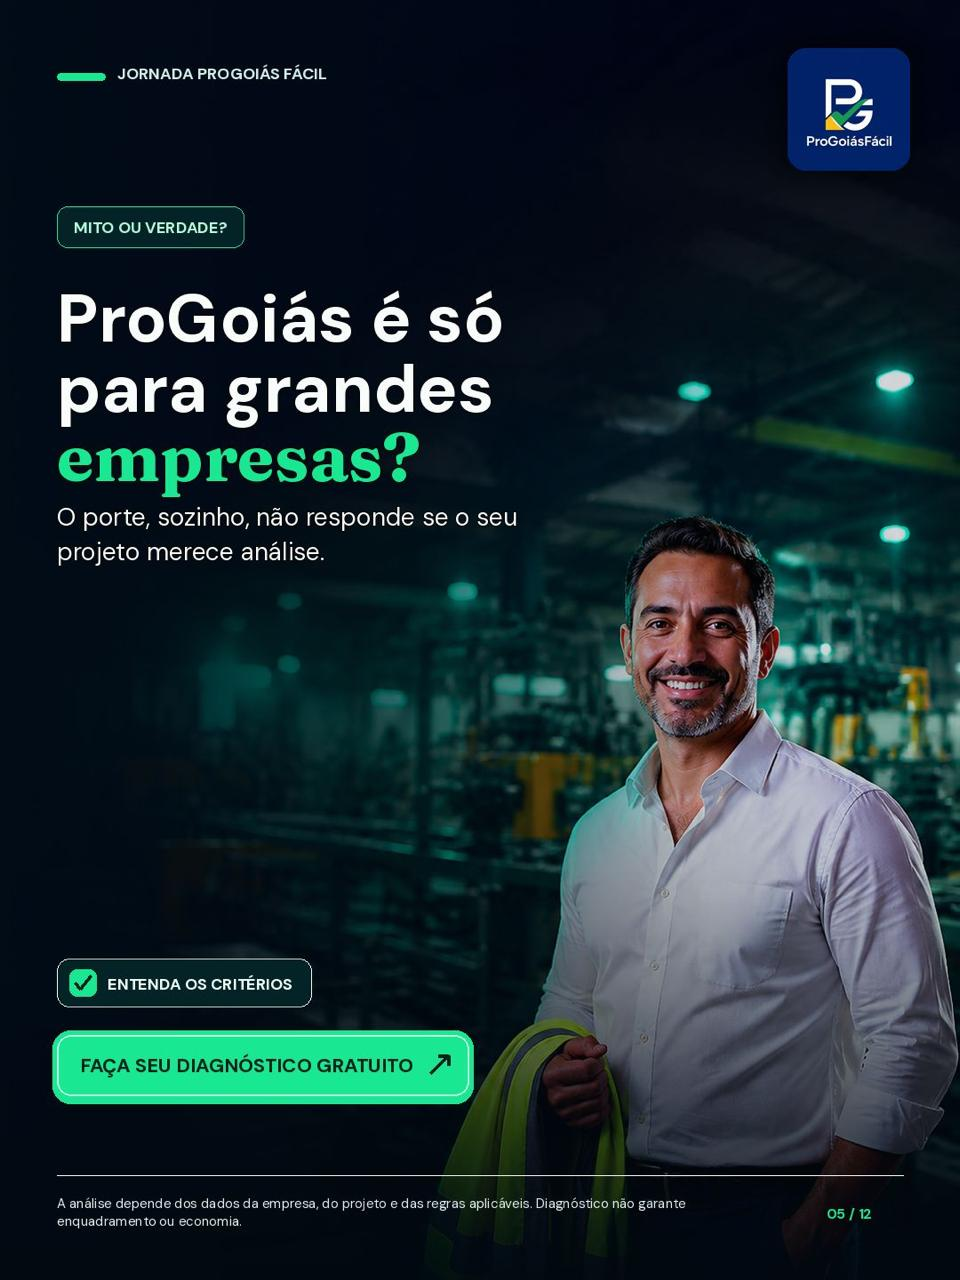
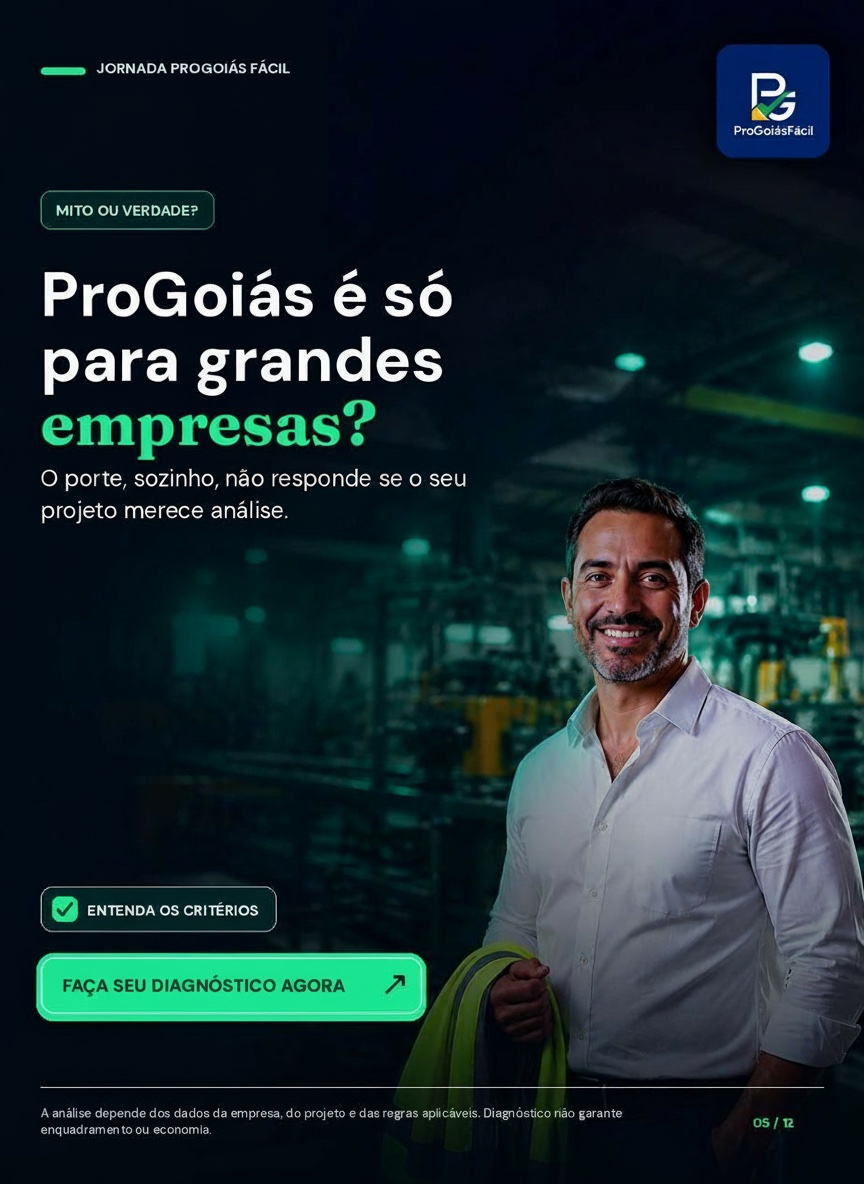
feat: restore slide 05 in sobre.html with new image without "gratuito"

diff --git a/sobre.html b/sobre.html
@@ -1099,6 +1099,18 @@
               </div>
             </div>
 
+            <!-- Image preview of the slide -->
+            <div class="relative rounded-xl overflow-hidden border border-white/10 group cursor-pointer" onclick="openLightbox('assets/sobre/slide-05-mito-grandes-empresas.jpg', 'Mito ou Verdade: ProGoiás é só para grandes empresas?')">
+              <img src="assets/sobre/slide-05-mito-grandes-empresas.jpg" alt="Slide ProGoiás para Pequenas e Médias Empresas" class="w-full h-48 object-cover object-top group-hover:scale-105 transition-transform duration-500">
+              <div class="absolute inset-0 bg-gradient-to-t from-obsidian via-transparent to-transparent opacity-80"></div>
+              <div class="absolute bottom-3 left-3 right-3 flex items-center justify-between">
+                <span class="text-xs text-white font-semibold flex items-center gap-1.5">
+                  <i data-lucide="zoom-in" class="w-4 h-4 text-mint"></i> Ver Lâmina Completa
+                </span>
+                <span class="badge-pill !py-0.5 !px-2 !text-[10px]">LÂMINA 05</span>
+              </div>
+            </div>
+
           </div>
 
           <!-- Indústrias Callout -->
